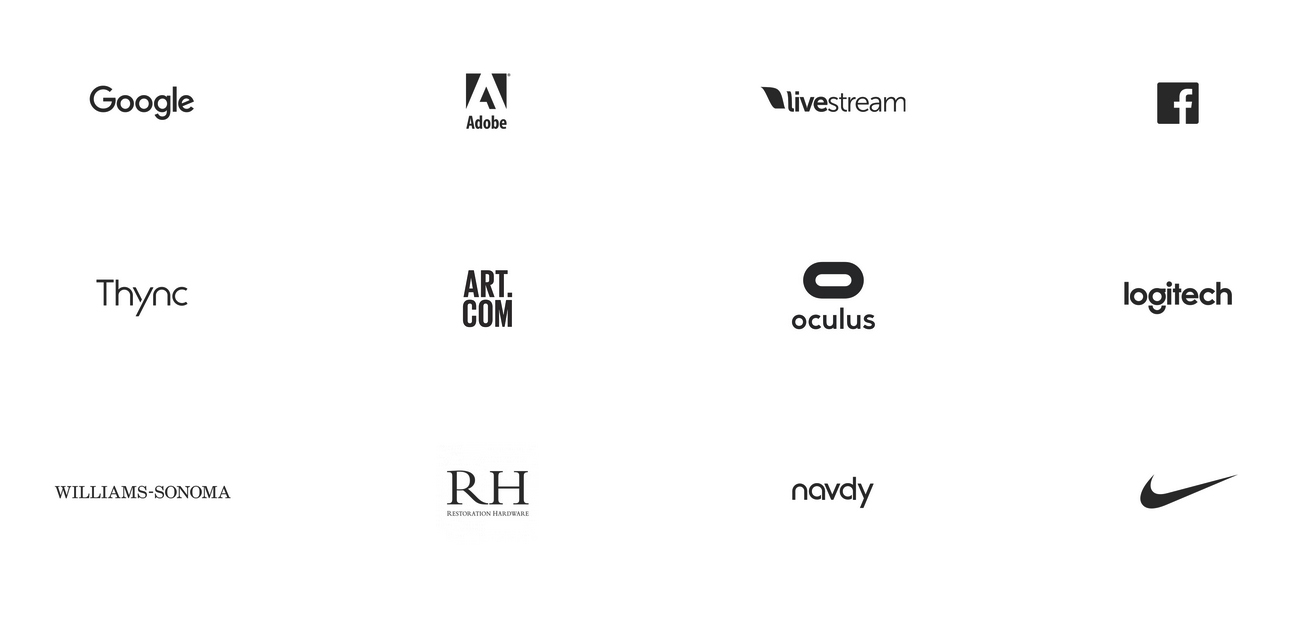
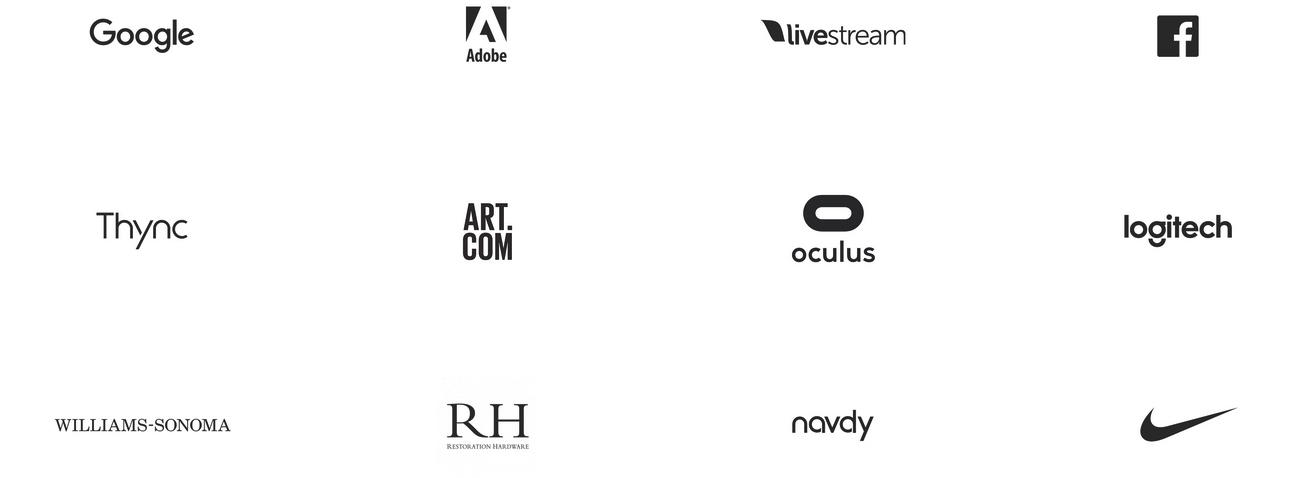
layout of about page

diff --git a/public/foundation/scss/app.scss b/public/foundation/scss/app.scss
@@ -695,9 +695,6 @@ img.full-width{
 				margin-right:30px;
 			}
 		}
-		p{
-			line-height: 1.4;
-		}
 	}
 }
 dl.awards{
@@ -713,8 +710,57 @@ dl.awards{
 }
 
 /* about */
+.big-header{
+	margin: 83px 0 107px;
+	@include breakpoint(medium){
+		margin: 52px 0 76px
+	}
+}
 .team-member-desc{
 	display: none;
+}
+#servicesSection{
+	margin-top: 30px;
+	margin-bottom: 30px;
+	hr{
+		margin: rem-calc(23px) auto; 
+	}
+	h1{
+		margin: 40px 0 7px;
+		@include breakpoint(medium){
+			margin-top: 27px;
+		}
+		@include breakpoint(large){
+			margin-top: 48px;
+		}
+	}
+	.service-content-block{
+		margin-top: 40px;
+		margin-bottom:40px;
+	}
+}
+#teamSection{
+	h1{
+		margin: 60px 0;
+		@include breakpoint(medium only){
+			margin-top:3px;
+		}
+	}
+}
+#teamTiles img{
+	width: 100%;
+}
+#partnerSection{
+	margin-bottom: 60px;
+	@include breakpoint(medium){
+		margin-bottom: 110px;
+	}
+	h1{
+		margin: 60px 0;
+		@include breakpoint(large){
+			margin-top:110px;
+		}
+	}
 }
 
 

diff --git a/public/foundation/scss/_settings.scss b/public/foundation/scss/_settings.scss
@@ -125,7 +125,7 @@ $header-margin-bottom: 0.5rem;
 $header-text-rendering: optimizeLegibility;
 $small-font-size: 80%;
 $header-small-font-color: $medium-gray;
-$paragraph-lineheight: 1.3;
+$paragraph-lineheight: 1.4;
 $paragraph-margin-bottom: 1.8rem;
 $paragraph-text-rendering: optimizeLegibility;
 $code-color: $black;
